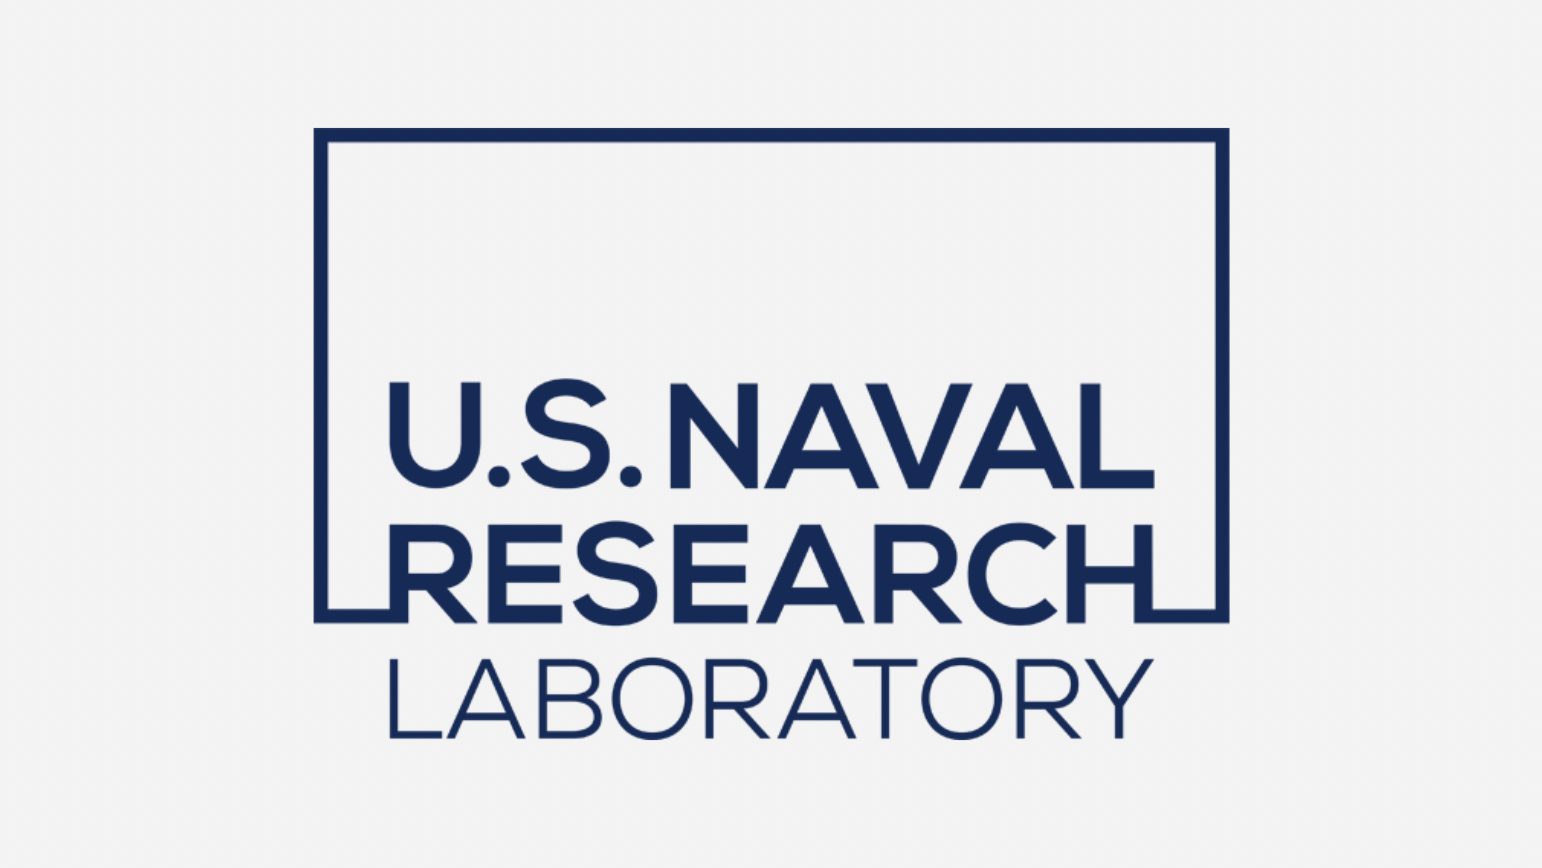
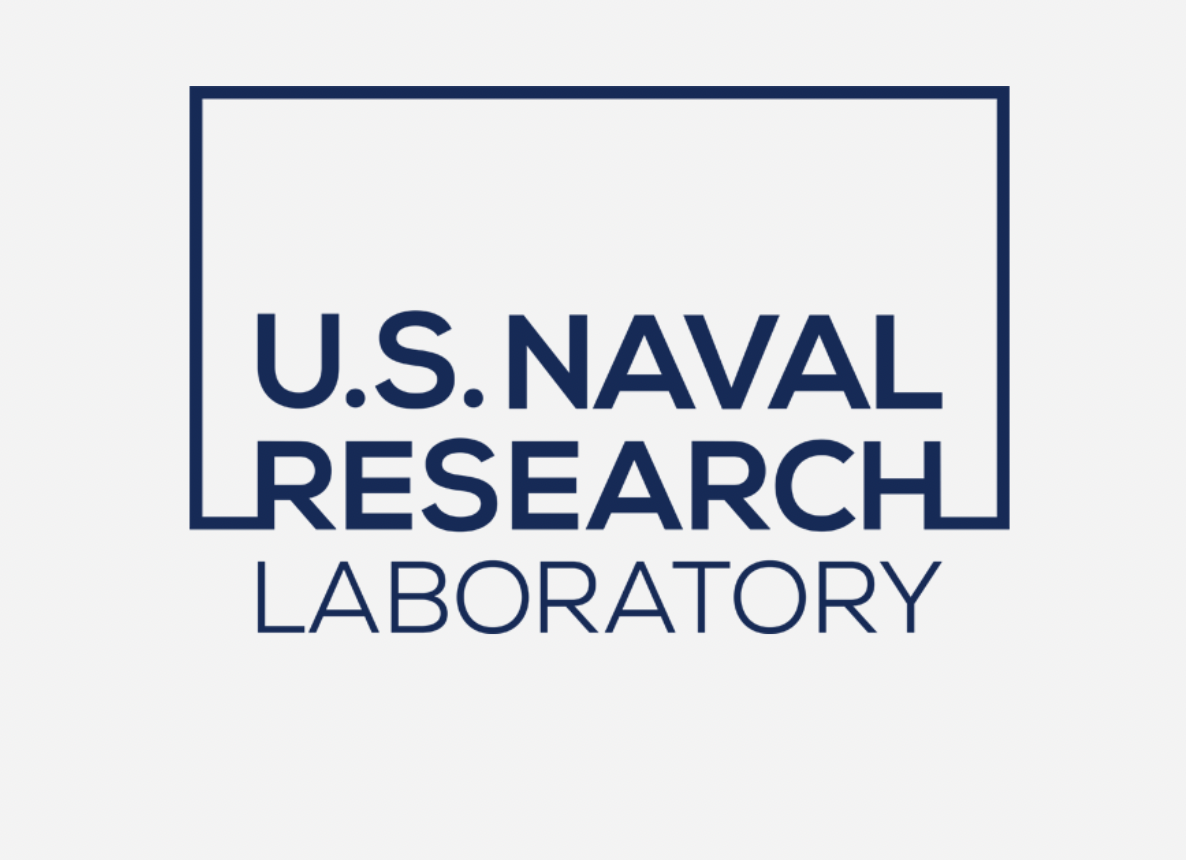
remove margin at botton of page

Changed region(s): [[0.156, 0.0907, 0.8735, 0.8767]]

diff --git a/index.html b/index.html
@@ -223,7 +223,7 @@
                         <!-- <p>branding, packaging</p> -->
                       </div>
                     </div>
-                    <img src="images/usnavalresearchlab1.png" class="lazyload  img-fluid" alt="Images" />
+                    <img src="images/usnavalresearchlab.png" class="lazyload  img-fluid" alt="Images" />
                   </a>
               </div>
 

diff --git a/css/style.css b/css/style.css
@@ -62,7 +62,7 @@ a, a:hover {
 }
 
 .unslate_co--site-inner {
-  margin-bottom: 400px;
+  /* margin-bottom: 400px; */
   position: relative;
   width: 100%;
   z-index: 1;
@@ -1166,7 +1166,7 @@ a, a:hover {
 }
 
 @media (max-width: 767.98px) {
-  .unslate_co--section {
+  .section {
     padding: 2rem 0;
   }
 }
